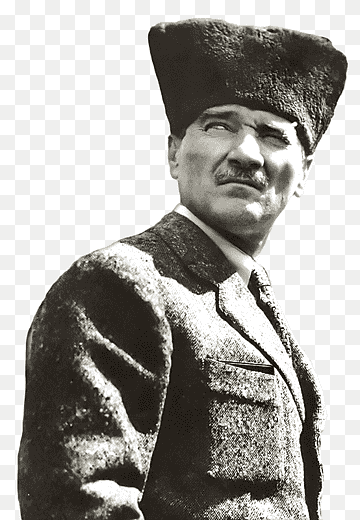
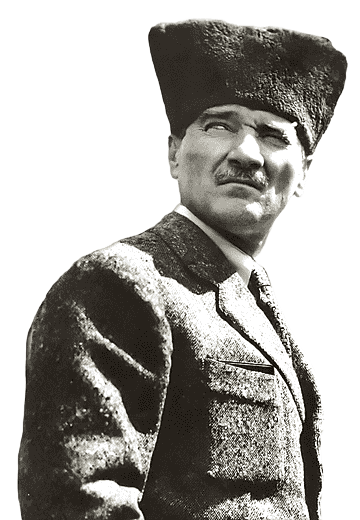
azudalalaa

diff --git a/public/style.css b/public/style.css
@@ -1,6 +1,6 @@
 @import url('https://fonts.googleapis.com/css2?family=DM+Mono:wght@400;500&family=Manrope:wght@400;500;600;700;800&family=Playfair+Display:ital,wght@0,600;0,700;1,600&display=swap');
 .footer{display:grid;grid-template-columns:minmax(240px,1.4fr) repeat(2,minmax(150px,1fr));gap:42px;position:relative;padding:76px 8vw 92px;border-top:1px solid var(--line);background:#0c0c0b}.footer-brand{display:flex;align-items:flex-start;gap:16px}.footer-brand img{width:56px;height:56px;object-fit:contain}.footer-brand strong{display:block;color:var(--paper);font:600 25px Georgia,serif;letter-spacing:2px}.footer-brand p{margin:5px 0 12px;color:var(--muted)!important;font-size:13px}.footer-brand small{color:var(--gold);font:10px 'DM Mono';letter-spacing:1.5px}.footer-column{display:grid;align-content:start;gap:12px}.footer-label{margin-bottom:9px;color:var(--gold);font:10px 'DM Mono';letter-spacing:2px}.footer-column a,.footer-muted{color:var(--muted);font-size:14px;text-decoration:none}.footer-column a:hover{color:var(--paper)}.footer-bottom{grid-column:1/-1;display:flex;justify-content:space-between;padding-top:25px;border-top:1px solid var(--line);color:#706b63;font:10px 'DM Mono';letter-spacing:1px}.footer h2{display:none}@media(max-width:760px){.footer{grid-template-columns:1fr 1fr;padding:55px 24px 70px;gap:30px}.footer-brand{grid-column:1/-1}.footer-bottom{display:grid;gap:10px;line-height:1.6}}
-.hero-side{position:relative;isolation:isolate}.hero-side::before{content:'';display:block;width:clamp(170px,21vw,290px);height:clamp(170px,21vw,290px);margin:0 auto 12px;background:url('/assets/bayrak.png') center/contain no-repeat;filter:drop-shadow(0 0 28px rgba(184,150,87,.36));animation:flag-float 6s cubic-bezier(.45,.05,.55,.95) infinite}.hero-side::after{content:'';position:absolute;z-index:-1;top:30px;left:50%;width:clamp(105px,13vw,190px);height:clamp(130px,16vw,230px);transform:translateX(-50%);background:url('/assets/atam.png') center/contain no-repeat;filter:grayscale(1) sepia(.25) drop-shadow(0 0 20px rgba(243,239,229,.18));mix-blend-mode:screen;opacity:.7;animation:atam-float 7s ease-in-out infinite}.hero-side .index{margin-top:0}@keyframes flag-float{0%,100%{transform:translate3d(0,0,0) rotate(-3deg) scale(1)}35%{transform:translate3d(8px,-16px,0) rotate(2deg) scale(1.07)}70%{transform:translate3d(-6px,-6px,0) rotate(-1deg) scale(1.02)}}@keyframes atam-float{0%,100%{transform:translate(-50%,8px) scale(.96);opacity:.58}50%{transform:translate(-50%,-10px) scale(1.04);opacity:.84}}
+.hero-side{position:relative;isolation:isolate}.hero-side::before{content:'';display:block;width:clamp(210px,25vw,340px);height:clamp(210px,25vw,340px);margin:0 auto 12px;background:url('/assets/bayrak.png') center/contain no-repeat;filter:drop-shadow(0 0 28px rgba(184,150,87,.36));opacity:0;animation:flag-float 8s cubic-bezier(.45,.05,.55,.95) infinite}.hero-side::after{content:'';position:absolute;z-index:-1;top:10px;left:50%;width:clamp(135px,16vw,230px);height:clamp(165px,20vw,270px);transform:translateX(-50%);background:url('/assets/atam.png') center/contain no-repeat;filter:grayscale(1) sepia(.25) drop-shadow(0 0 20px rgba(243,239,229,.18));mix-blend-mode:screen;opacity:0;animation:atam-float 8s ease-in-out infinite}.hero-side .index{margin-top:0}@keyframes flag-float{0%,49.99%{transform:translate3d(0,8px,0) rotate(-3deg) scale(.96);opacity:0}50%,65%{transform:translate3d(8px,-16px,0) rotate(2deg) scale(1.07);opacity:1}82%,100%{transform:translate3d(-6px,-6px,0) rotate(-1deg) scale(1.02);opacity:0}}@keyframes atam-float{0%,15%{transform:translate(-50%,8px) scale(.96);opacity:1}35%,49.99%{transform:translate(-50%,-10px) scale(1.04);opacity:0}50%,100%{transform:translate(-50%,8px) scale(.96);opacity:0}}
 ::selection{background:var(--gold);color:var(--ink)}::-moz-selection{background:var(--gold);color:var(--ink)}
 .platform-settings{display:grid;gap:12px;padding:18px;border:1px solid rgba(184,150,87,.4);background:rgba(184,150,87,.035)}.platform-settings legend{padding:0 8px;color:var(--gold);font:11px 'DM Mono';letter-spacing:1.6px;text-transform:uppercase}.platform-row{display:grid;grid-template-columns:42px minmax(100px,.7fr) minmax(160px,1.4fr) auto;align-items:center;gap:10px;padding:12px 0;border-bottom:1px solid var(--line)}.platform-row:last-child{border-bottom:0}.platform-row input:not([type="checkbox"]){min-width:0}.platform-icon{display:inline-grid;place-items:center;width:30px;height:30px;border:1px solid rgba(184,150,87,.55);border-radius:50%;color:var(--gold);font:700 10px 'DM Mono';letter-spacing:-.4px;text-transform:uppercase}.socials{display:grid;grid-template-columns:repeat(2,minmax(0,1fr));gap:1px;background:var(--line);max-width:900px}.social-link{display:grid;grid-template-columns:42px 1fr auto;align-items:center;gap:14px;min-height:86px;padding:18px 22px;background:var(--ink);color:var(--paper);text-decoration:none;transition:background .25s,transform .25s}.social-link:hover{background:rgba(184,150,87,.1);transform:translateY(-3px)}.social-link .platform-icon{width:38px;height:38px}.social-arrow{color:var(--gold);font-size:18px}.icon-instagram:before{content:'ig'}.icon-discord:before{content:'dc'}.icon-mail:before{content:'@'}.icon-globe:before{content:'web'}.icon-reddit:before{content:'rd'}.icon-whatsapp:before{content:'wa'}.icon-x:before{content:'x'}.platform-icon{font-size:0}.platform-icon:before{font-size:10px}.hero-emblem{display:none}@media(max-width:760px){.platform-row{grid-template-columns:34px 1fr}.platform-row input:not([type="checkbox"]){grid-column:2}.platform-row .switch-row{grid-column:2}.socials{grid-template-columns:1fr}.social-link{min-height:74px}}
 .log-filter{display:block;width:100%;max-width:850px;margin:18px 0;padding:14px 16px;border:1px solid rgba(184,150,87,.45);background:#10100e;color:var(--paper);font:14px Manrope,Arial,sans-serif}.security-log article[hidden]{display:none}
